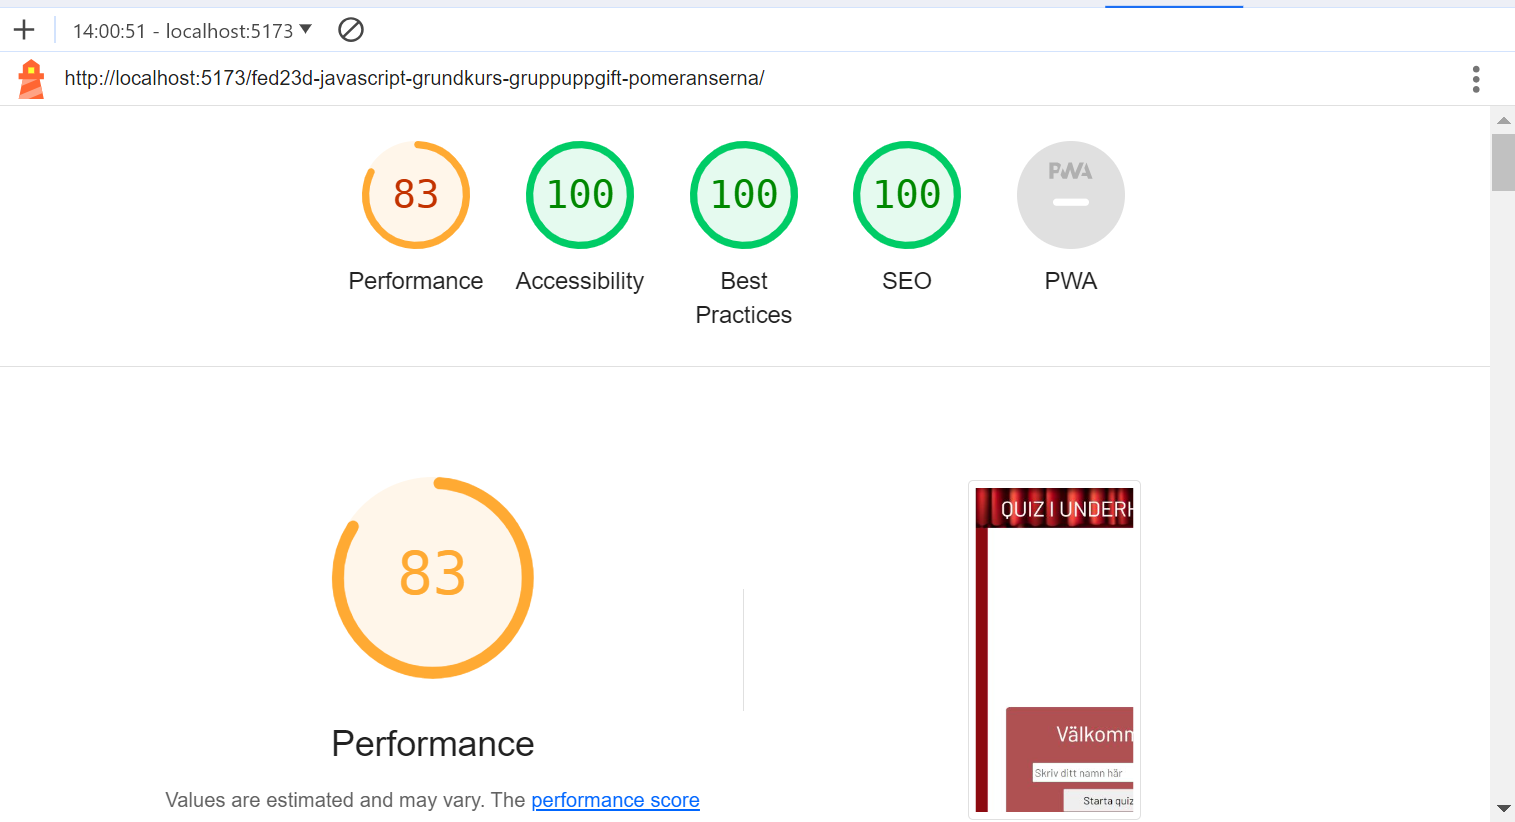
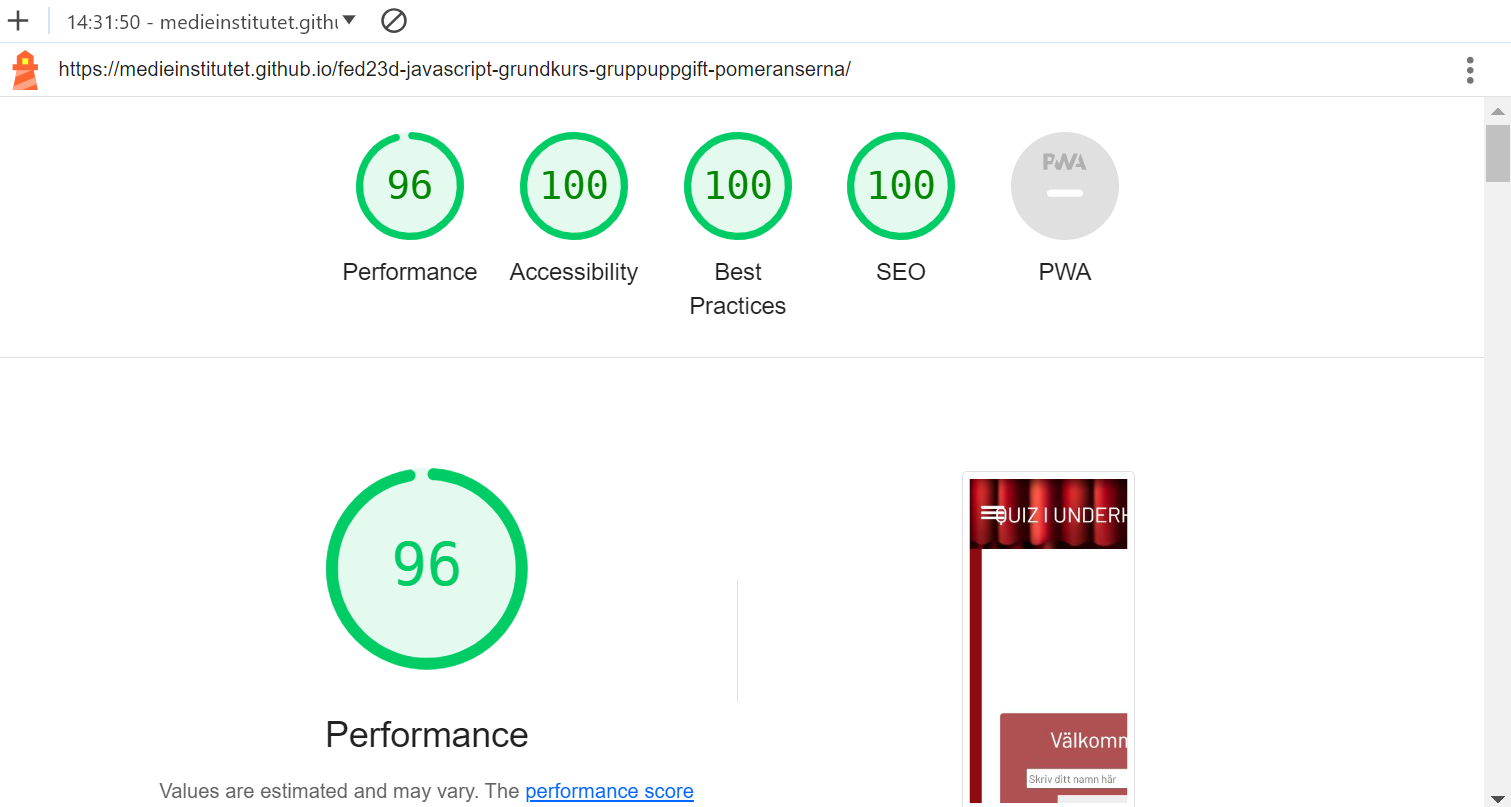
Lighthouse and ReadMe updates Lighthouse and ReadMe-updates

diff --git a/README.md b/README.md
@@ -28,39 +28,39 @@ Klicka i vilka krav ni har gjort:
 #### Kodkvalitet
 - [ ] Koden är korrekt formaterad.
 - [ ] Koden innehåller enstaka buggar, men fungerar på det stora hela.
-- [ ] Ni har gjort åtminstone en mobilversion; om ni återanvänder samma layout i tablet/desktop så går det bra.
-- [ ] Sidan ska vara någorlunda snygg (CSS).
-- [ ] Ni har checkat av "vanliga misstag" från tidigare uppgifter, såväl HTML & CSS som JavaScript.
-- [ ] Sidan är tillgänglighetsgranskad.
-- [ ] Sidan är validerad.
-- [ ] Ni har gjort en Lighthouse-analys på live-sidan.
+- [x] Ni har gjort åtminstone en mobilversion; om ni återanvänder samma layout i tablet/desktop så går det bra.
+- [x] Sidan ska vara någorlunda snygg (CSS).
+- [x] Ni har checkat av "vanliga misstag" från tidigare uppgifter, såväl HTML & CSS som JavaScript.
+- [x] Sidan är tillgänglighetsgranskad.
+- [x] Sidan är validerad.
+- [x] Ni har gjort en Lighthouse-analys på live-sidan.
 
 #### Funktionsbeskrivning
-- [ ] Skapa ett quiz med minst 20 frågor
-- [ ] Varje fråga ska ha 3 svarsalternativ och endast 1 svarsalternativ ska vara korrekt
-- [ ] Frågorna ska presenteras i slumpmässig ordning, och du ska visa 10 frågor per spelomgång
-- [ ] Om användaren väljer att spela igen, så ska inte samma 10 frågor komma upp på nytt
-- [ ] Du ska få poäng för rätt svar
-- [ ] Det ska bara visas en fråga åt gången på skärmen
-- [ ] Det ska finnas en tidräkning (uppåt). Tidräkningen ska stanna när alla frågor har besvarats.
-- [ ] Det ska visas en bekräftelseruta som visar hur många frågor spelaren svarade rätt på (av totalt antal frågor), och hur lång tid det tog.
-- [ ] Varje person ska ha gjort minst två pull requests.
+- [x] Skapa ett quiz med minst 20 frågor
+- [x] Varje fråga ska ha 3 svarsalternativ och endast 1 svarsalternativ ska vara korrekt
+- [x] Frågorna ska presenteras i slumpmässig ordning, och du ska visa 10 frågor per spelomgång
+- [x] Om användaren väljer att spela igen, så ska inte samma 10 frågor komma upp på nytt
+- [x] Du ska få poäng för rätt svar
+- [x] Det ska bara visas en fråga åt gången på skärmen
+- [x] Det ska finnas en tidräkning (uppåt). Tidräkningen ska stanna när alla frågor har besvarats.
+- [x] Det ska visas en bekräftelseruta som visar hur många frågor spelaren svarade rätt på (av totalt antal frågor), och hur lång tid det tog.
+- [x] Varje person ska ha gjort minst två pull requests.
 
 ### För plus i kanten
 #### Kodkvalitet
-- [ ] Koden följer konventioner och praxis.
-- [ ] Projektets utförande är ambitiöst och väl genomarbetat. Ni har inte tagit på er för mycket, utan sett till att det ni har är genomarbetat.
-- [ ] Ni har tagit höjd för responsiv design (CSS) och CSS:en är välskriven.
+- [x] Koden följer konventioner och praxis.
+- [x] Projektets utförande är ambitiöst och väl genomarbetat. Ni har inte tagit på er för mycket, utan sett till att det ni har är genomarbetat.
+- [x] Ni har tagit höjd för responsiv design (CSS) och CSS:en är välskriven.
 - [ ] Koden är korrekt formaterad med ESLint och Prettier.
 - [ ] Projektets kod är självdokumenterande. Där det är otydligt har du skrivit till kommentarer. Exempelvis heter variabler och funktioner på ett sådant sätt att det är tydligt vad de gör.
 - [ ] Ni har aktivt arbetat för att minska kodupprepning, men det är OK om det förekommer en del. Ibland kan kodupprepning t.ex. vara bra för att koden blir tydligare att läsa, så all upprepning är inte av ondo.
 - [ ] Ingen spaghettikod :spaghetti:
 - [ ] Anonyma funktioner används med omsorg.
-- [ ] Koden och projektet har en logisk struktur.
-- [ ] Ni har skrivit en ordentlig README (projektbeskrivning, skrämdumpar, deltagare i arbetet).
+- [x] Koden och projektet har en logisk struktur.
+- [x] Ni har skrivit en ordentlig README (projektbeskrivning, skrämdumpar, deltagare i arbetet).
 
 #### Funktionsbeskrivning
-- [ ] Det ska finnas en "progess bar" som visar hur många av frågorna som hittills har besvarats
+- [x] Det ska finnas en "progess bar" som visar hur många av frågorna som hittills har besvarats
 - [ ] Flera svarsalternativ ska kunna vara korrekta
 - [ ] Du får olika poäng beroende på hur snabbt du svarar på frågan (ni får komma på själva hur det ska funka, dokumentera i README:n)
 - [ ] Du får minuspoäng om du svarar fel
